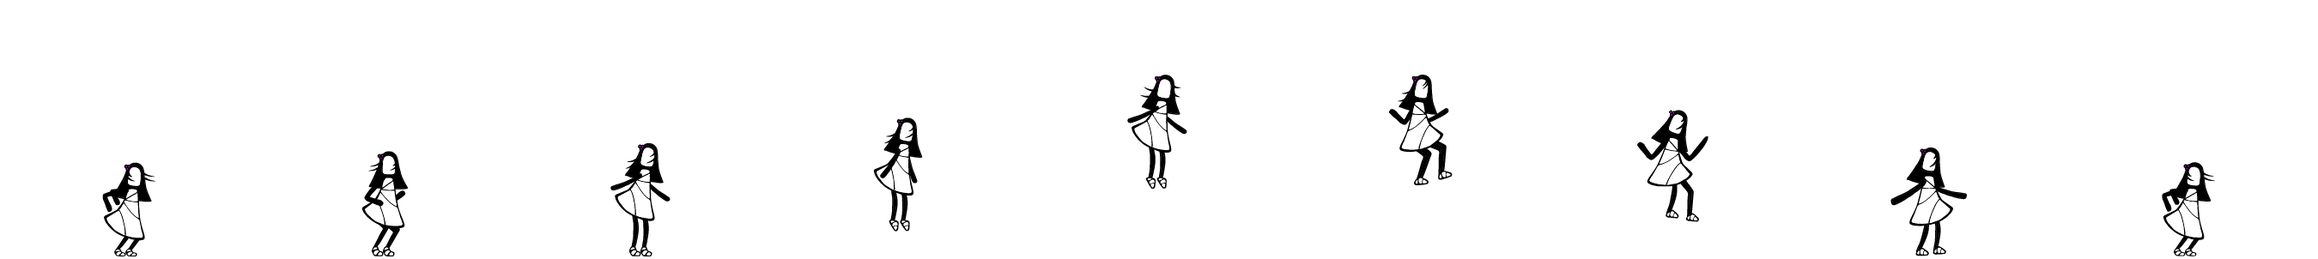
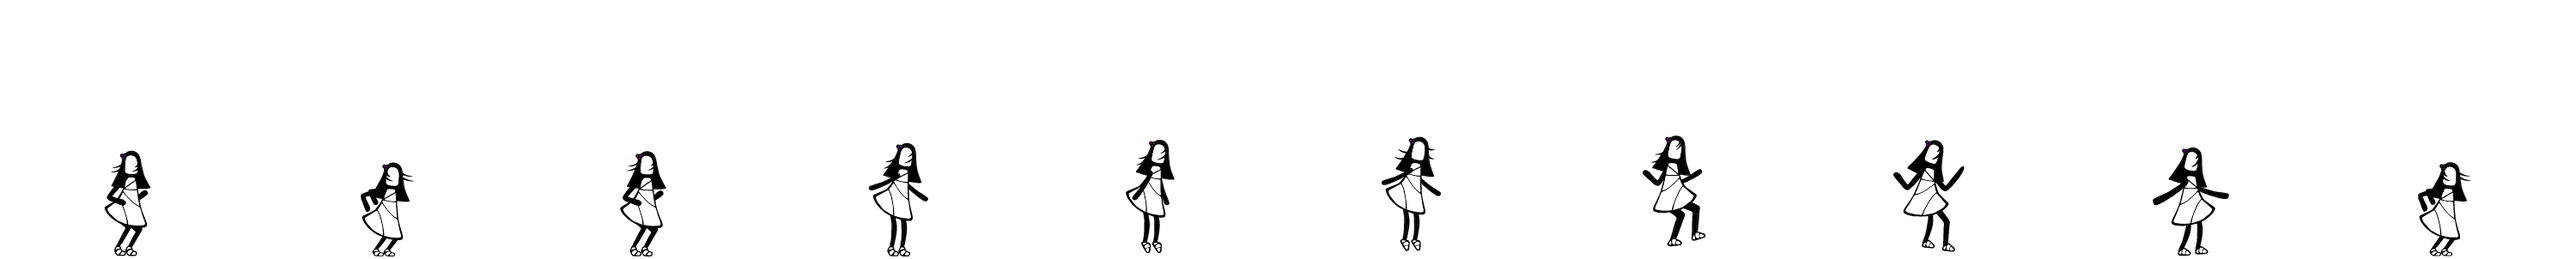
tweaking and testing animations

diff --git a/public/logic/game-logic/time-keeper.js b/public/logic/game-logic/time-keeper.js
@@ -60,21 +60,20 @@ const timeKeeper = function () {
         if (gamespace.data[space_key.index].gameInstance.data.timer <= 0) {
             console.info("As a shapeshifter, your transformation begins!");
             // window.requestAnimationFrame(function () {
-            //     shapeshift = false;
             gamespace.data[space_key.index].gameInstance.player.sprite.set_timeOfDay(true);
             gamespace.data[space_key.index].gameInstance.player.sprite.shapeshift();
             // window.requestAnimationFrame(gamespace.data[space_key.index].gameInstance.player.sprite.shapeshift);
 
             // gamespace.data[space_key.index].gameInstance.player.sprite.beingType = "human";
 
-            if (keyPress_handler.left ||
-                keyPress_handler.right ||
-                keyPress_handler.up ||
-                keyPress_handler.down) {
-                console.info("already updating shifts through user actions");
-            } else {
+            // if (keyPress_handler.left ||
+            //     keyPress_handler.right ||
+            //     keyPress_handler.up ||
+            //     keyPress_handler.down) {
+            //     console.info("already updating shifts through user actions");
+            // } else {
                 moveAndDisplay.idleShift(spriteHolder);
-            };
+            // };
             // });
         };
 

diff --git a/public/style.css b/public/style.css
@@ -209,7 +209,7 @@ body {
 
 .move-up,
 .move-down {
-    animation: jumps 1.95s steps(9);
+    animation: jumps 1.35s steps(9);
     animation-iteration-count: 1;
     transition-timing-function: ease-out;
     animation-delay: -.1s;
